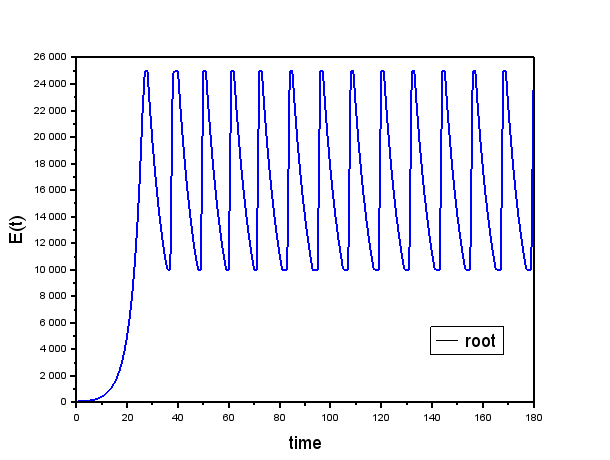
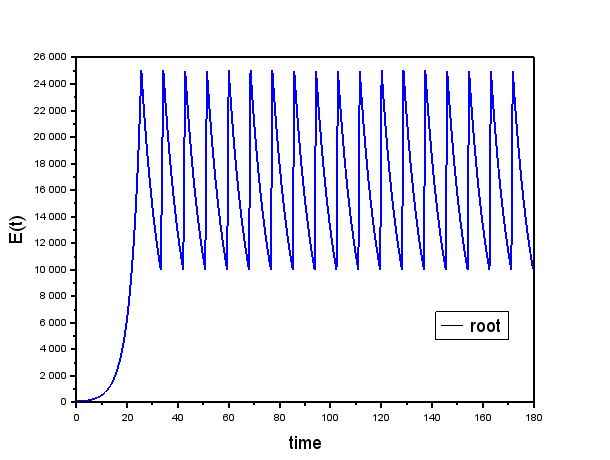
correction to scilab state codes and figures

Changed region(s): [[0.1869, 0.1522, 0.8721, 0.8217], [0.6852, 0.6696, 0.841, 0.7609], [0.1557, 0.8217, 0.1869, 0.8826]]

diff --git a/latex/ode_stateProblem.tex b/latex/ode_stateProblem.tex
@@ -334,14 +334,14 @@ Table $\ref{tab:state_discontinuity_Py}$ shows that the number of function evalu
 \caption{Solving state discontinuity model in Scilab using event detection.}
 \label{fig:solve_state_discontinuity_scilab}
 \end{figure}
-There is only one solver with root functionality in Scilab; it is `lsodar', the root-finding version of `lsoda'. The solution we obtain is unusual. Though it correctly oscillates and goes sharply between 10000 and 25000, the number of peaks the solution has, is different from the number of peaks found in the other programming environments (13 in Scilab as opposed to 18 everywhere else). Further work needs to be done to determine why the Scilab solver is not giving accurate results.
+There is only one solver with root functionality in Scilab; it is `lsodar', the root-finding version of `lsoda'. Figure $\ref{fig:solve_state_discontinuity_scilab}$ shows that it produces a solution similar to that of the other programming environments. The computed solution correctly oscillates and goes sharply between 10000 and 25000 and has 18 peaks in the time domain.
 
 \begin{table}[h]
 \caption {Efficiency data for Scilab state-dependent discontinuity model - number of function evaluations.} \label{tab:state_discontinuity_scilab}
 \begin{center}
 \begin{tabular}{ c c c c } 
 method & no event & no event with sharp tol. & with event detection \\ 
-lsoda & 2794 & 4636 & 1327 \\
+lsoda & 2794 & 4636 &   1804 \\
 \end{tabular}
 \end{center}
 \end{table}
@@ -477,21 +477,21 @@ We perform the same experiment in Scilab. We set the absolute and relative toler
 
 Again, Figure $\ref{fig:tolerance_state_lsoda_no_event_sci}$ exposes the behavior whereby the same solver applied to the same problem at different tolerances gives substantially different results. We would expect the code at the sharper tolerances to give very similar curves but clearly, LSODA, even at sharp tolerances, does not.
 
-From Figure $\ref{fig:tolerance_state_lsoda_with_event_sci}$, we can see that the use of the event detection allows us to obtain a correctly oscillating solution. We note however that the solution still has 13 peaks as opposed to 18 peaks at all the different tolerances and thus that they are not the same as the ones obtained in the other platforms. As mentioned previously, we leave this issue for investigation as future work.
+From Figure $\ref{fig:tolerance_state_lsoda_with_event_sci}$, we can see that the use of the event detection allows us to obtain a correctly oscillating solution. The solutions are lined up at the different tolerances and it seems that we can get reasonable accuracy even at a tolerance of $10^{-2}$.
 
 \begin{table}[h]
 \caption {The Scilab version of LSODA applied to state-dependent discontinuity model tolerance study - number of function evaluations.} \label{tab:tolerance_state_discontinuity_lsoda_scilab} 
 \begin{center}
 \begin{tabular}{ c c c }
 tolerance & no event detection & with event detection \\
-1e-1 & 1141 & 287 \\
-1e-2 & 1606 & 262 \\
-1e-4 & 1968 & 523 \\
-1e-6 & 2122 & 983 \\
-1e-7 & 2684 & 1307 \\
-1e-8 & 2730 & 1567 \\
-1e-10 & 3380 & 1963 \\
-1e-11 & 3603 & 2331 \\
+1e-1 & 1141 & 295 \\
+1e-2 & 1606 & 364 \\
+1e-4 & 1968 & 680 \\
+1e-6 & 2122 & 1288 \\
+1e-7 & 2684 & 1784 \\
+1e-8 & 2730 & 2060 \\
+1e-10 & 3380 & 2576 \\
+1e-11 & 3603 & 3068 \\
 \end{tabular}
 \end{center}
 \end{table}
